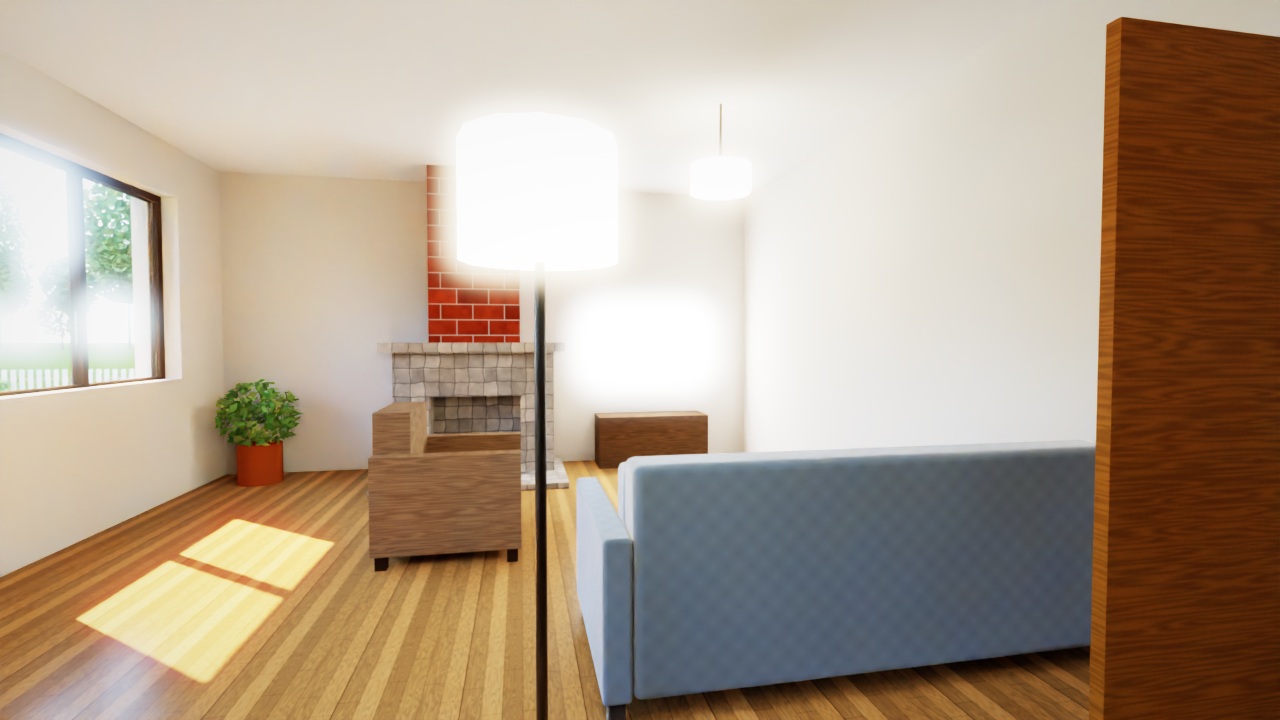
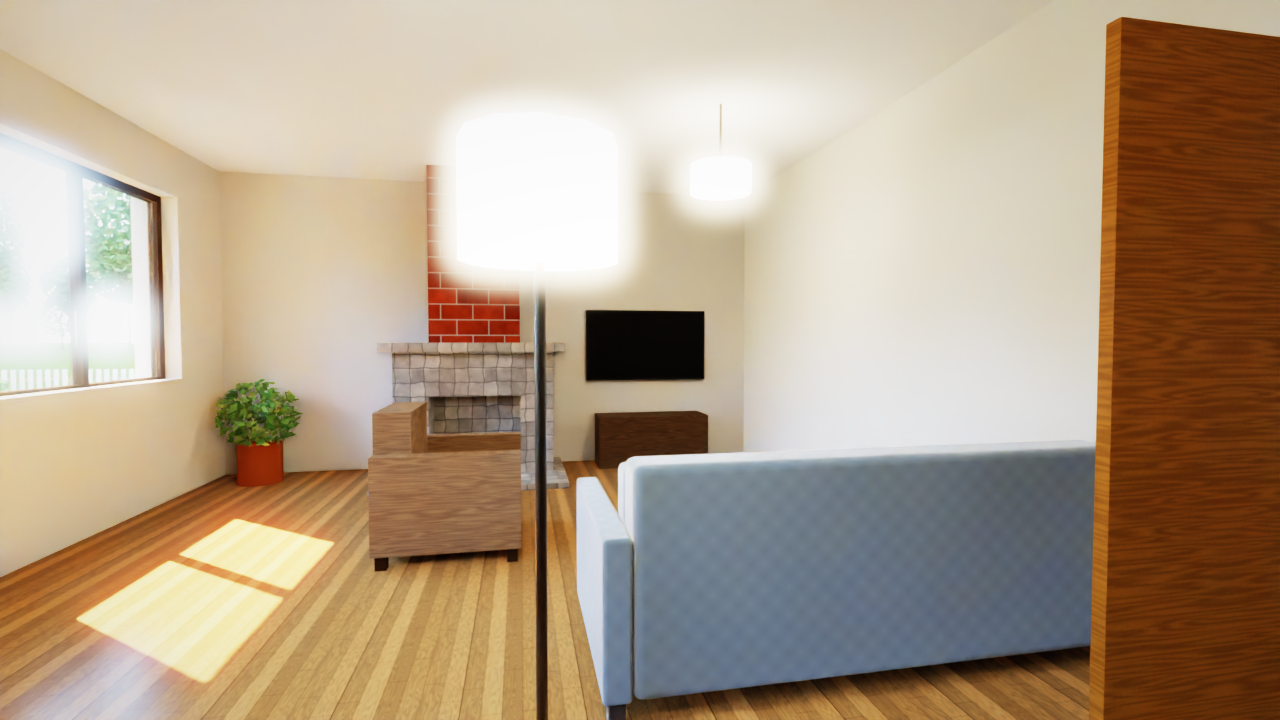
README: кадры реалистичного рендера (экстерьер, сад, гостиная, санузел)
Claude-Session: https://claude.ai/code/session_01937n5RRC7cdz7Prb73naht

diff --git a/README.md b/README.md
@@ -86,7 +86,12 @@
 
 ### Реалистичный рендер
 
-Ролик рендерится методом трассировки путей, только свободными библиотеками и на CPU, без GPU:
+<p>
+<img src="results/claude-opus-5.5-pro/2026-10-16-v4/stills/still_exterior.png" width="49%"> <img src="results/claude-opus-5.5-pro/2026-10-16-v4/stills/still_garden.png" width="49%">
+<img src="results/claude-opus-5.5-pro/2026-10-16-v4/stills/still_living.png" width="49%"> <img src="results/claude-opus-5.5-pro/2026-10-16-v4/stills/still_bath.png" width="49%">
+</p>
+
+Кадры 1280×720 при 16 лучах на пиксель, дом построен Opus 5.5. Ролик рендерится методом трассировки путей, только свободными библиотеками и на CPU, без GPU:
 - **Intel OSPRay 3.2** (Apache 2.0) — физически корректная трассировка путей с глобальным освещением и мягкими тенями;
 - **Intel Open Image Denoise** — нейросетевой денойзер, который работает по каналам цвета, нормалей и альбедо;
 - **небо и солнце** — модель Хошека — Вилки; поверх неба наложен процедурный слой облаков.
